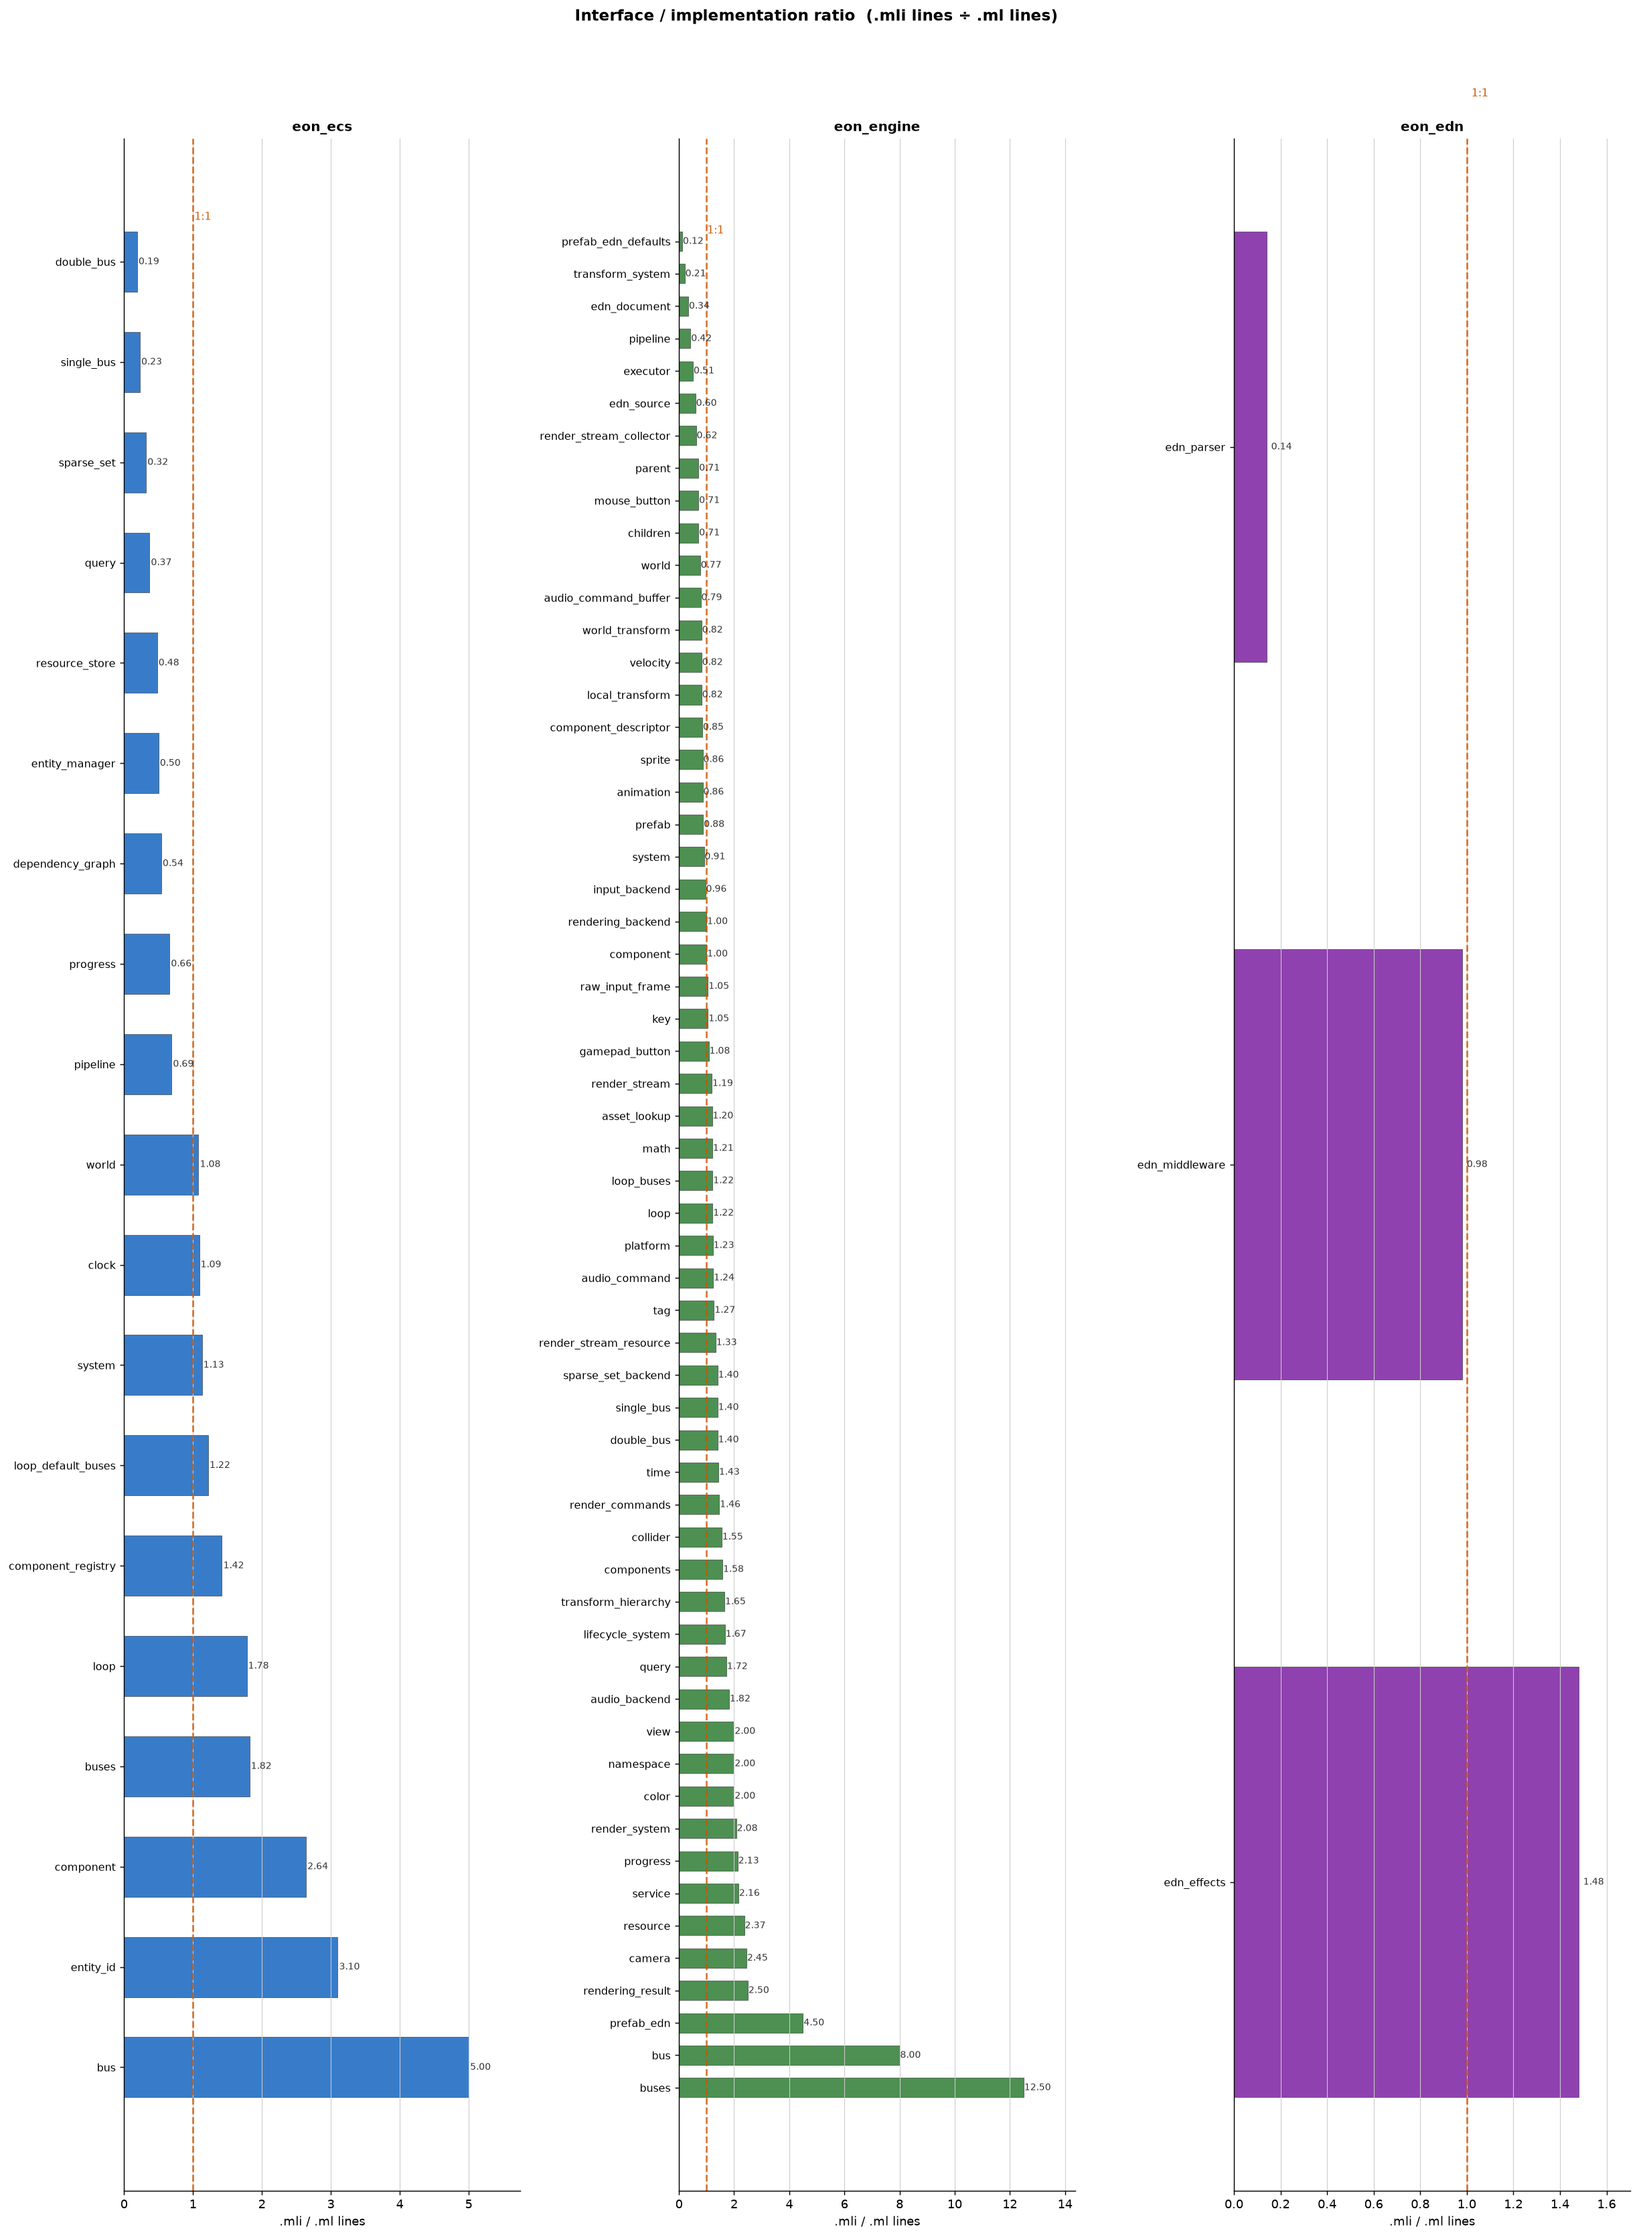
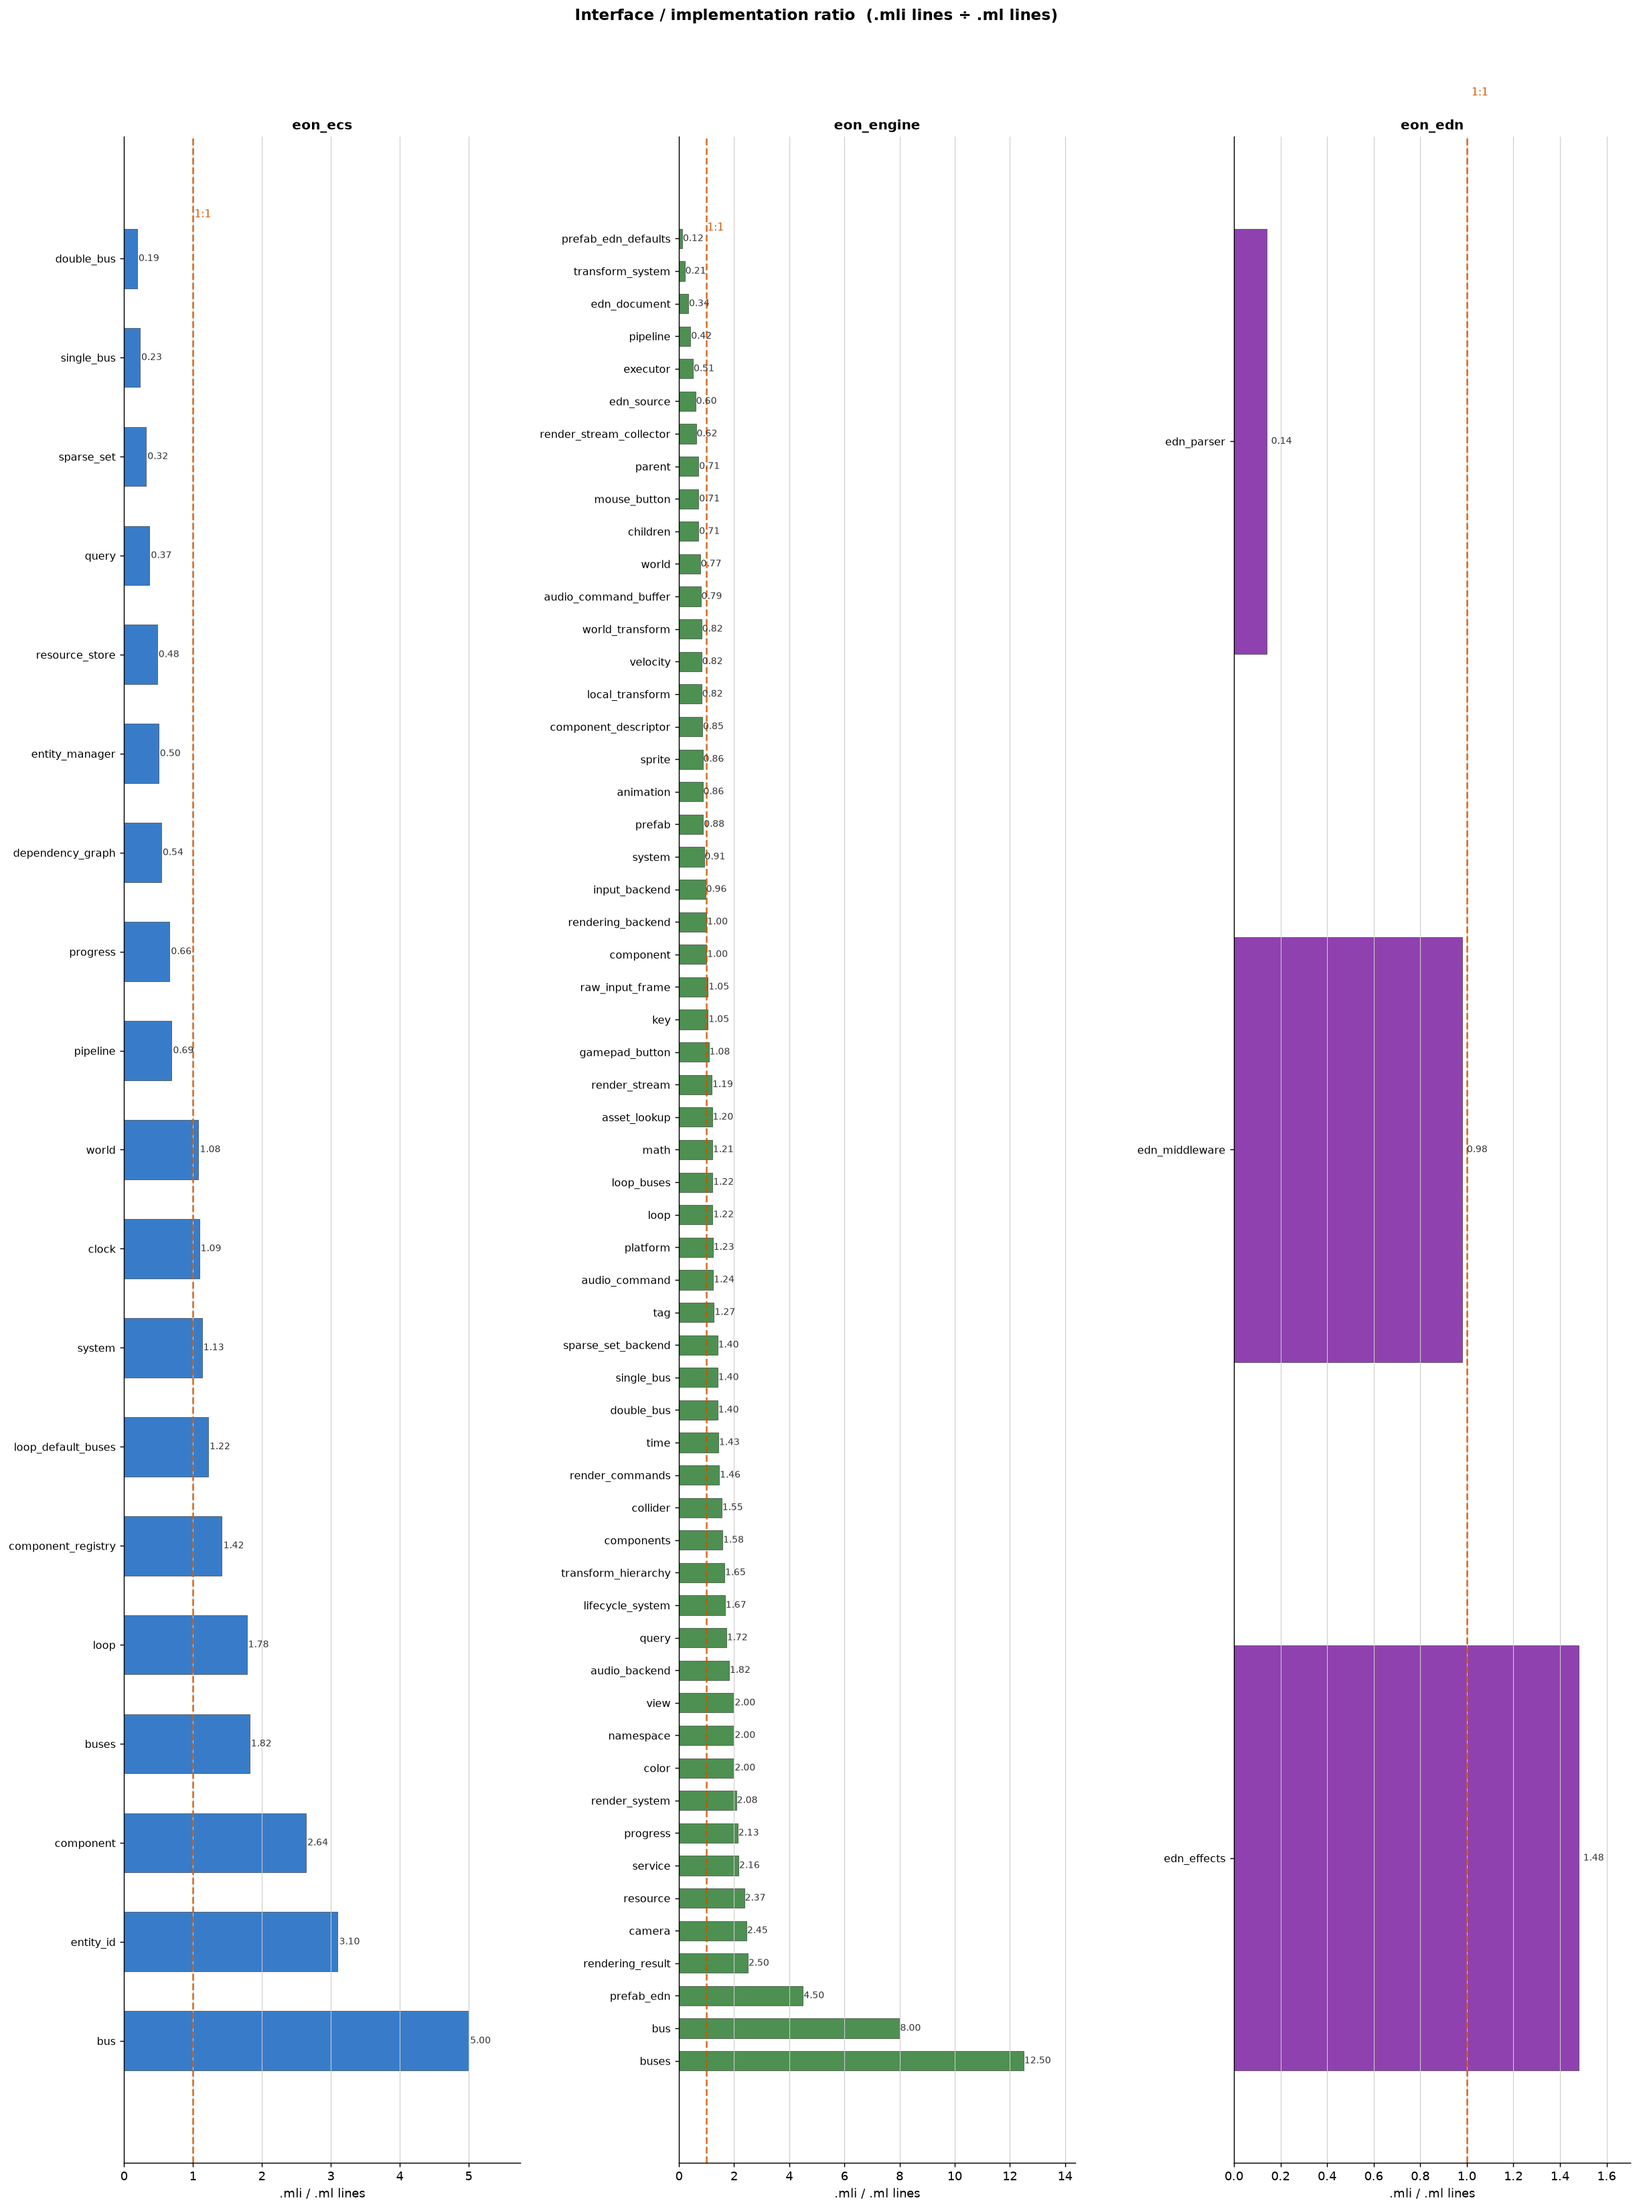
[eon_ecs, eon_engine :: core] Fill genuine unit test gaps from the coverage map audit (ecs-046)

Changed region(s): [[0.3415, 0.1248, 0.4967, 0.9364]]

diff --git a/docs/design/codebase_map.md b/docs/design/codebase_map.md
@@ -83,32 +83,32 @@ Implementation (`.ml`) line count per module, excluding tests, benchmarks, and c
 
 ## Code statistics
 
-_Generated by `just visualizations` on 2026-07-12._
+_Generated by `just visualizations` on 2026-07-19._
 
 ### Line counts
 
 | Category | eon\_ecs | eon\_engine | eon\_edn | Total |
 |---|---:|---:|---:|---:|
-| Source implementation (`.ml`) | 2051 | 1953 | 227 | 4231 |
-| Public interfaces (`.mli`) | 1223 | 2442 | 137 | 3802 |
-| Tests | 2000 | 3753 | 360 | 6113 |
+| Source implementation (`.ml`) | 2592 | 3483 | 435 | 6510 |
+| Public interfaces (`.mli`) | 1223 | 2440 | 137 | 3800 |
+| Tests | 2186 | 3896 | 360 | 6442 |
 | Benchmarks | 916 | 307 | 98 | 1321 |
 
 ### Module counts
 
 | | eon\_ecs | eon\_engine | eon\_edn | Total |
 |---|---:|---:|---:|---:|
-| Public modules (with `.mli`) | 20 | 60 | 4 | 84 |
-| Test suites | 20 | 21 | 3 | 44 |
-| Test cases | 78 | 219 | 13 | 310 |
+| Public modules (with `.mli`) | 20 | 59 | 4 | 83 |
+| Test suites | 23 | 21 | 3 | 47 |
+| Test cases | 91 | 230 | 13 | 334 |
 
 ### Repository
 
 | | |
 |---|---|
-| Total commits | 293 |
+| Total commits | 302 |
 | Open issues | 0 |
 | Created | 2025-10-11 |
-| Last commit | 2026-07-11 |
+| Last commit | 2026-07-19 |
 
 <!-- STATS_END -->
